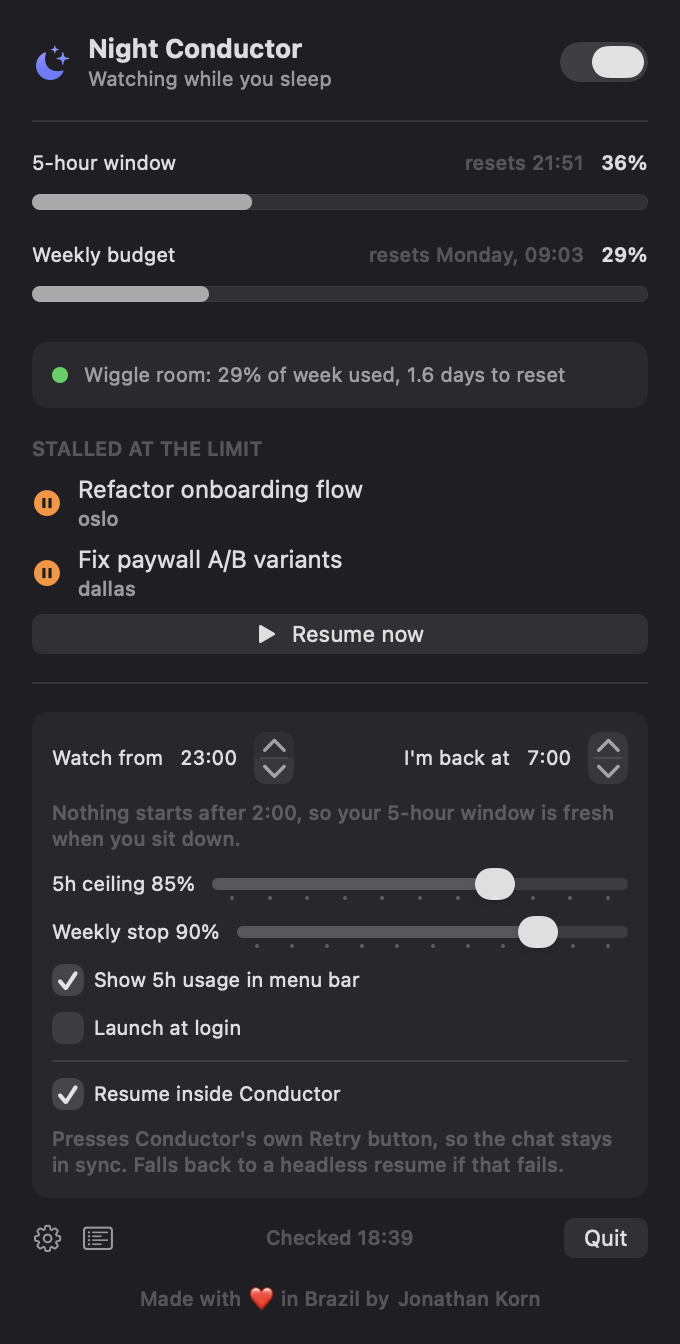
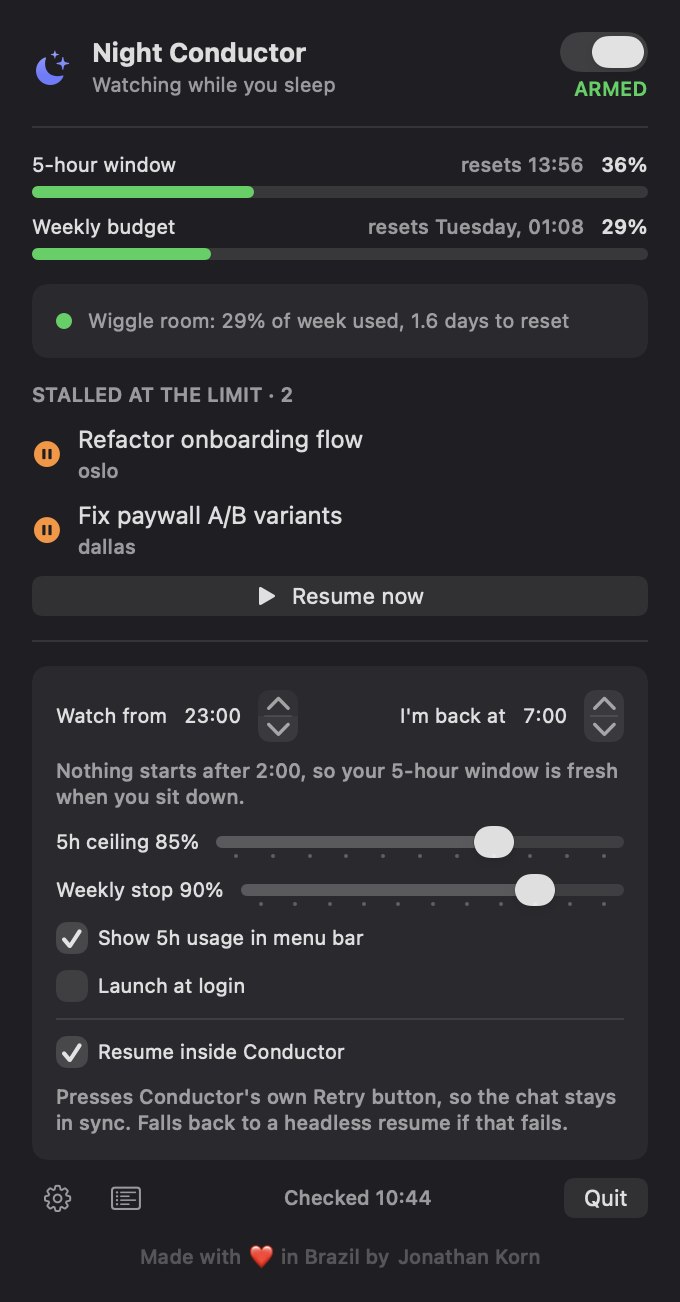
style(design): design-review fixes — semantic color, tokens, affordances
From a /design-review pass (Claude design voice; Codex voice unavailable —
it hit its own usage limit, fittingly):

- Color (CRITICAL): one semantic ramp — green=headroom, amber=approaching,
  red=at/over — for the usage meters; indigo is now brand-only (the moon).
  The decision dot (green/amber) and ARMED label (green) now speak the same
  language instead of competing indigo-vs-green.
- Meters (CRITICAL): replaced ProgressView(.linear), whose .tint renders
  gray in some contexts and washed out the signal, with a custom capsule
  bar that always shows the semantic fill.
- Spacing (HIGH): introduced a 4pt Design token scale (xs/s/m/l/xl) and a
  shared cardSurface(); removed the 1/3/6/10/14 magic-number pile.
- Contrast (HIGH): promoted functional text (reset times, Checked time,
  section header, settings helpers) from .tertiary to .secondary.
- Affordance (HIGH): footer gear/activity icons are now ToolbarIconButtons
  with a real hit target + hover highlight (standard menulet pattern).
- Clarity (MEDIUM): explicit ARMED/PAUSED label by the toggle; the toggle
  now carries an accessibility label.
- Robustness: stalled list shows a count and scrolls past ~4 rows so it
  can't push the popover off-screen.

13 Swift tests pass; screenshots regenerated.

diff --git a/NightConductor/Sources/NightConductor/MenuView.swift b/NightConductor/Sources/NightConductor/MenuView.swift
@@ -6,6 +6,40 @@ enum AboutLinks {
     static let linkedIn = URL(string: "https://www.linkedin.com/in/jkkorn")!
 }
 
+/// Design tokens — one 4pt spacing scale and one card surface, so spacing
+/// and chrome are systematic instead of per-view magic numbers.
+enum Design {
+    static let xs: CGFloat = 2   // within a tight text stack
+    static let s: CGFloat = 4    // label → control
+    static let m: CGFloat = 8    // within a section
+    static let l: CGFloat = 12   // card padding / section gap
+    static let xl: CGFloat = 16  // window padding
+    static let cardRadius: CGFloat = 8
+}
+
+extension Color {
+    /// One semantic ramp for "how full is this budget": green = headroom,
+    /// amber = approaching the ceiling, red = at/over. Indigo is reserved
+    /// for the brand (the moon), never for status.
+    static func usageStatus(_ pct: Double) -> Color {
+        switch pct {
+        case ..<60: return .green
+        case ..<85: return .orange
+        default: return .red
+        }
+    }
+}
+
+extension View {
+    /// The single card surface used by the decision pill and settings pane.
+    func cardSurface() -> some View {
+        padding(Design.l)
+            .frame(maxWidth: .infinity, alignment: .leading)
+            .background(.quaternary.opacity(0.5),
+                        in: RoundedRectangle(cornerRadius: Design.cardRadius))
+    }
+}
+
 struct MenuView: View {
     @EnvironmentObject var state: AppState
     @State private var showSettings: Bool
@@ -16,7 +50,7 @@ struct MenuView: View {
     }
 
     var body: some View {
-        VStack(alignment: .leading, spacing: 14) {
+        VStack(alignment: .leading, spacing: Design.l) {
             header
             Divider()
             usageSection
@@ -27,27 +61,33 @@ struct MenuView: View {
             footer
             about
         }
-        .padding(16)
+        .padding(Design.xl)
         .frame(width: 340)
     }
 
     private var header: some View {
-        HStack(spacing: 10) {
+        HStack(spacing: Design.l) {
             Image(systemName: "moon.stars.fill")
                 .font(.title2)
-                .foregroundStyle(.indigo.gradient)
-            VStack(alignment: .leading, spacing: 1) {
+                .foregroundStyle(.indigo.gradient) // indigo = brand identity only
+            VStack(alignment: .leading, spacing: Design.xs) {
                 Text("Night Conductor").font(.headline)
                 Text(subtitle).font(.caption).foregroundStyle(.secondary)
             }
             Spacer()
-            Toggle("", isOn: Binding(
-                get: { state.armed },
-                set: { state.armed = $0 }
-            ))
-            .toggleStyle(.switch)
-            .controlSize(.small)
-            .help("Arm or disarm the night watch")
+            VStack(alignment: .trailing, spacing: Design.xs) {
+                Toggle("Arm night watch", isOn: Binding(
+                    get: { state.armed },
+                    set: { state.armed = $0 }
+                ))
+                .labelsHidden()
+                .toggleStyle(.switch)
+                .controlSize(.small)
+                .help("Arm or disarm the night watch")
+                Text(state.armed ? "ARMED" : "PAUSED")
+                    .font(.caption2.weight(.semibold))
+                    .foregroundStyle(state.armed ? Color.green : .secondary)
+            }
         }
     }
 
@@ -58,7 +98,7 @@ struct MenuView: View {
     }
 
     private var usageSection: some View {
-        VStack(spacing: 10) {
+        VStack(spacing: Design.m) {
             UsageMeter(
                 label: "5-hour window",
                 window: state.usage?.fiveHour,
@@ -73,7 +113,7 @@ struct MenuView: View {
     }
 
     private var decisionRow: some View {
-        HStack(spacing: 8) {
+        HStack(spacing: Design.m) {
             Circle()
                 .fill(decisionColor)
                 .frame(width: 8, height: 8)
@@ -82,9 +122,7 @@ struct MenuView: View {
                 .foregroundStyle(.secondary)
                 .lineLimit(2)
         }
-        .padding(10)
-        .frame(maxWidth: .infinity, alignment: .leading)
-        .background(.quaternary.opacity(0.5), in: RoundedRectangle(cornerRadius: 8))
+        .cardSurface()
     }
 
     private var decisionColor: Color {
@@ -101,22 +139,30 @@ struct MenuView: View {
                     .font(.caption).foregroundStyle(.tertiary)
             }
         } else {
-            VStack(alignment: .leading, spacing: 6) {
-                Text("STALLED AT THE LIMIT")
+            VStack(alignment: .leading, spacing: Design.m) {
+                Text("STALLED AT THE LIMIT · \(state.stalled.count)")
                     .font(.caption2.weight(.semibold))
-                    .foregroundStyle(.tertiary)
-                ForEach(state.stalled) { session in
-                    HStack(spacing: 8) {
-                        Image(systemName: "pause.circle.fill")
-                            .foregroundStyle(.orange)
-                        VStack(alignment: .leading, spacing: 1) {
-                            Text(session.title).font(.callout).lineLimit(1)
-                            Text(session.workspaceName)
-                                .font(.caption2).foregroundStyle(.secondary)
+                    .foregroundStyle(.secondary)
+                // Bounded height so a long stalled list can't push the
+                // popover past the screen; scrolls past ~4 rows.
+                ScrollView {
+                    VStack(alignment: .leading, spacing: Design.m) {
+                        ForEach(state.stalled) { session in
+                            HStack(spacing: Design.m) {
+                                Image(systemName: "pause.circle.fill")
+                                    .foregroundStyle(.orange)
+                                VStack(alignment: .leading, spacing: Design.xs) {
+                                    Text(session.title).font(.callout).lineLimit(1)
+                                    Text(session.workspaceName)
+                                        .font(.caption2).foregroundStyle(.secondary)
+                                }
+                                Spacer()
+                            }
                         }
-                        Spacer()
                     }
+                    .frame(maxWidth: .infinity, alignment: .leading)
                 }
+                .frame(maxHeight: state.stalled.count > 4 ? 160 : .infinity)
                 Button {
                     Task { await state.tick(manual: true) }
                 } label: {
@@ -148,35 +194,24 @@ struct MenuView: View {
     }
 
     private var footer: some View {
-        VStack(spacing: 10) {
+        VStack(spacing: Design.m) {
             if showSettings { SettingsPane() }
             HStack {
                 // No animation here: animated height changes make the
                 // MenuBarExtra window dismiss itself on some macOS versions.
-                Button {
+                ToolbarIconButton(systemName: "gearshape", label: "Settings") {
                     showSettings.toggle()
-                } label: {
-                    Image(systemName: "gearshape")
                 }
-                .buttonStyle(.plain)
-                .foregroundStyle(.secondary)
-                .accessibilityLabel("Settings")
                 .accessibilityIdentifier("settingsButton")
-
-                Button {
+                ToolbarIconButton(systemName: "list.bullet.rectangle", label: "Activity") {
                     showActivity.toggle()
-                } label: {
-                    Image(systemName: "list.bullet.rectangle")
                 }
-                .buttonStyle(.plain)
-                .foregroundStyle(.secondary)
-                .accessibilityLabel("Activity")
                 .accessibilityIdentifier("activityButton")
 
                 Spacer()
                 if let tick = state.lastTick {
                     Text("Checked \(tick.formatted(date: .omitted, time: .shortened))")
-                        .font(.caption2).foregroundStyle(.tertiary)
+                        .font(.caption2).foregroundStyle(.secondary)
                 }
                 Spacer()
 
@@ -184,6 +219,32 @@ struct MenuView: View {
                     .controlSize(.small)
             }
         }
+    }
+}
+
+/// A menu-bar-style icon button: real hit target plus a hover highlight, so
+/// it reads as clickable instead of a dim decorative glyph.
+struct ToolbarIconButton: View {
+    let systemName: String
+    let label: String
+    let action: () -> Void
+    @State private var hovering = false
+
+    var body: some View {
+        Button(action: action) {
+            Image(systemName: systemName)
+                .frame(width: 26, height: 22)
+                .background(
+                    hovering ? Color.secondary.opacity(0.18) : .clear,
+                    in: RoundedRectangle(cornerRadius: 5)
+                )
+                .contentShape(Rectangle())
+        }
+        .buttonStyle(.plain)
+        .foregroundStyle(.secondary)
+        .onHover { hovering = $0 }
+        .help(label)
+        .accessibilityLabel(label)
     }
 }
 
@@ -210,14 +271,6 @@ struct UsageMeter: View {
 
     private var value: Double { window?.utilization ?? 0 }
 
-    private var tint: Color {
-        switch value {
-        case ..<60: return .indigo
-        case ..<85: return .orange
-        default: return .red
-        }
-    }
-
     private var resetText: String {
         guard let resetsAt = window?.resetsAt else { return "" }
         switch resetStyle {
@@ -227,17 +280,26 @@ struct UsageMeter: View {
     }
 
     var body: some View {
-        VStack(spacing: 3) {
+        VStack(spacing: Design.s) {
             HStack {
                 Text(label).font(.caption)
                 Spacer()
-                Text(resetText).font(.caption2).foregroundStyle(.tertiary)
+                Text(resetText).font(.caption2).foregroundStyle(.secondary)
                 Text(window == nil ? "–" : "\(Int(value))%")
                     .font(.caption.weight(.semibold).monospacedDigit())
             }
-            ProgressView(value: min(value, 100), total: 100)
-                .progressViewStyle(.linear)
-                .tint(tint.gradient)
+            // Custom bar with an explicit semantic fill. macOS's
+            // ProgressView(.linear) ignores .tint in some render contexts,
+            // washing the fill to gray — and the color IS the signal here.
+            GeometryReader { geo in
+                ZStack(alignment: .leading) {
+                    Capsule().fill(Color.secondary.opacity(0.2))
+                    Capsule()
+                        .fill(Color.usageStatus(value))
+                        .frame(width: max(4, geo.size.width * min(value, 100) / 100))
+                }
+            }
+            .frame(height: 6)
         }
     }
 }
@@ -256,7 +318,7 @@ struct SettingsPane: View {
     private let permissionTimer = Timer.publish(every: 2, on: .main, in: .common).autoconnect()
 
     var body: some View {
-        VStack(alignment: .leading, spacing: 8) {
+        VStack(alignment: .leading, spacing: Design.m) {
             HStack {
                 Text("Watch from").font(.caption)
                 Stepper("\(startHour):00", value: $startHour, in: 0...23)
@@ -268,7 +330,7 @@ struct SettingsPane: View {
             }
             Text("Nothing starts after \(((endHour - 5) + 24) % 24):00, so your 5-hour window is fresh when you sit down.")
                 .font(.caption2)
-                .foregroundStyle(.tertiary)
+                .foregroundStyle(.secondary)
                 .fixedSize(horizontal: false, vertical: true)
             HStack {
                 Text("5h ceiling \(Int(fiveHourCeiling))%").font(.caption)
@@ -308,7 +370,7 @@ struct SettingsPane: View {
                 if hasAccessibility {
                     Text("Presses Conductor's own Retry button, so the chat stays in sync. Falls back to a headless resume if that fails.")
                         .font(.caption2)
-                        .foregroundStyle(.tertiary)
+                        .foregroundStyle(.secondary)
                         .fixedSize(horizontal: false, vertical: true)
                 } else {
                     Text("Needs Accessibility access: System Settings → Privacy & Security → Accessibility → enable Night Conductor.")
@@ -318,8 +380,8 @@ struct SettingsPane: View {
                 }
             }
         }
-        .padding(10)
-        .background(.quaternary.opacity(0.4), in: RoundedRectangle(cornerRadius: 8))
+        .padding(Design.l)
+        .background(.quaternary.opacity(0.5), in: RoundedRectangle(cornerRadius: Design.cardRadius))
         .onReceive(permissionTimer) { _ in
             hasAccessibility = UIResumer.hasAccessibilityPermission
         }
